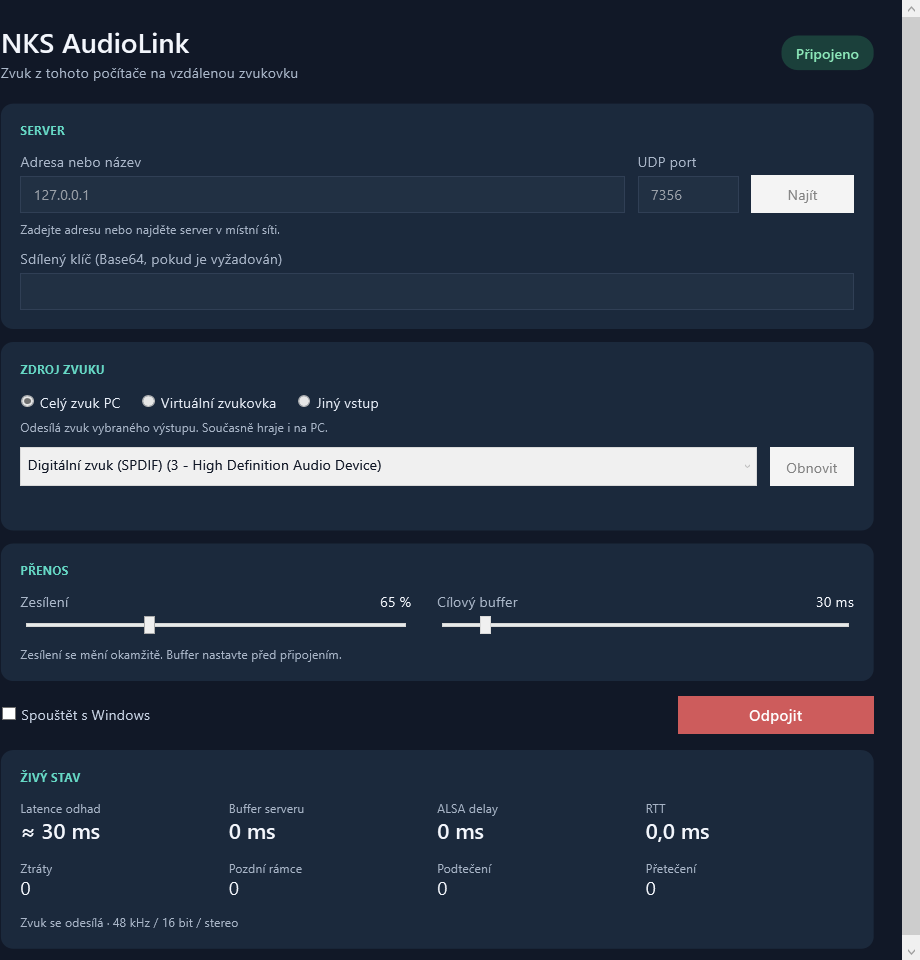
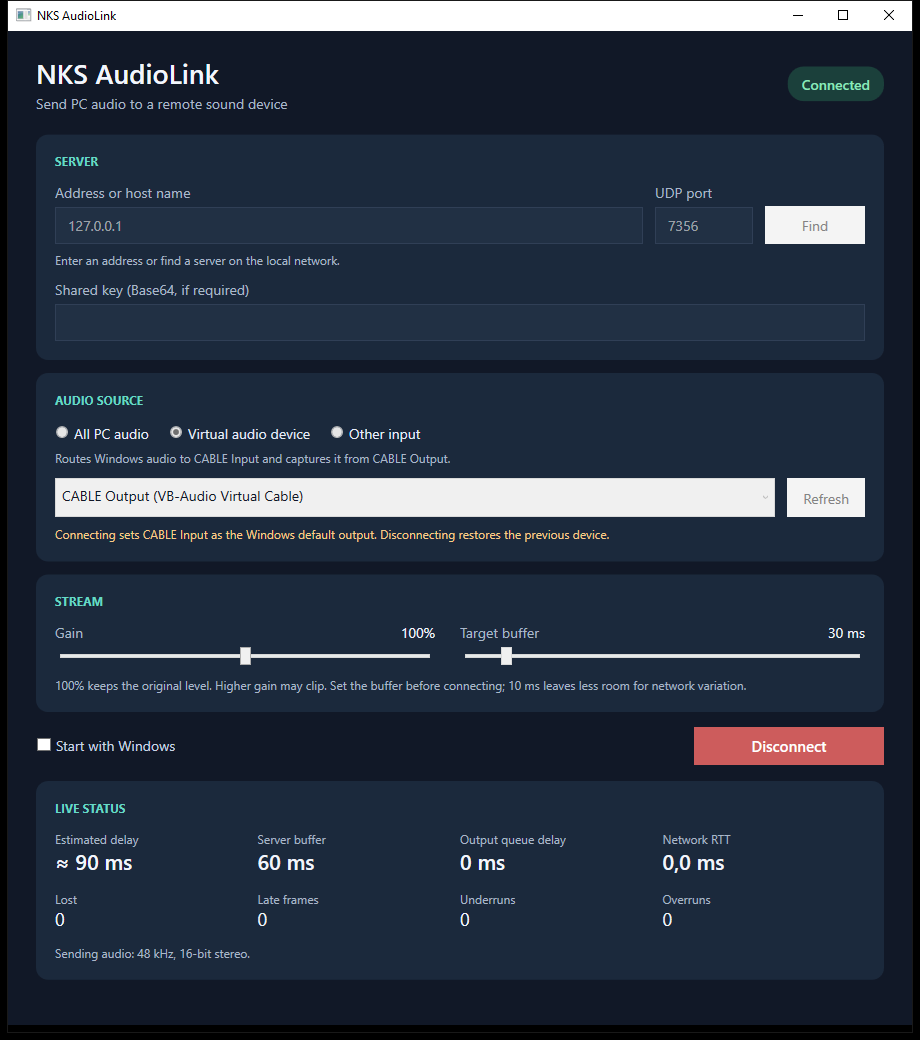
docs: refresh English app screenshot and clarify diagnostic output

diff --git a/README.md b/README.md
@@ -12,6 +12,8 @@ AudioLink provides a Windows WPF app, a command-line client and a Linux systemd 
 
 ![NKS AudioLink Windows app with connection controls and live statistics](docs/screenshots/client.png)
 
+The app is connected to a localhost diagnostic server in this screenshot. Its null output does not play through a physical sound card.
+
 ## Features
 
 - **Three capture modes:** the full output of a selected playback device, a separately installed VB-CABLE virtual device, or another recording input. Virtual mode switches the Windows default output while connected and restores it on disconnect.
